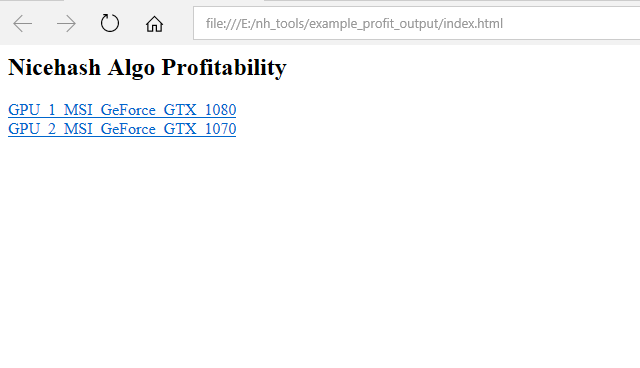
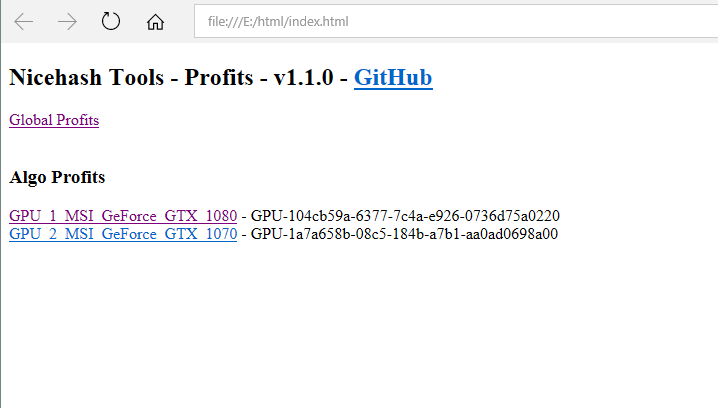
Add global profit chart

diff --git a/nh_profit.php b/nh_profit.php
@@ -46,14 +46,25 @@ if (!is_dir($settings['pathToHtmlDir'])) {
 }
 
 # System defined
-$handle     = fopen($settings['pathToNicehashLogsDir'] . $useThisLog, 'r');
-$btc        = 0;
-$profit2    = array();
-$allAlgos   = array();
+$handle       = fopen($settings['pathToNicehashLogsDir'] . $useThisLog, 'r');
+$btc          = 0;
+$profit2      = array();
+$allAlgos     = array();
+$globalProfit = array();
 
 if ($handle) {
     while (($buff = fgets($handle, 4096)) !== FALSE) {
         $buffr = trim(iconv("UCS-2", "ISO-8859-1", $buff));
+
+        # Grab global profitability details if available
+        if (FALSE !== strpos($buffr, 'Current Global profit:') &&
+            FALSE === strpos($buffr, 'IS PROFITABLE') &&
+            preg_match('/Current Global profit: ([.0-9]*) /', $buffr, $matches)) {
+                $microsec = strtotime($datetime) * 1000;
+                if ($microsec > 1234) {
+                    $globalProfit[] = "[{$microsec},{$matches[1]}]";
+                }
+        }
 
         # Capture current bitcoin rate
         if (preg_match('/Current Bitcoin rate: (.*)/', $buffr, $matches)) {
@@ -67,8 +78,8 @@ if ($handle) {
             }
 
             # Get name of device (GPU, CPU, etc)
-            if (preg_match('/Profits for.*\((.*)\)/', $buffr, $matches)) {
-                $device = str_replace(array(' ','#'), '_', $matches[1]);
+            if (preg_match('/Profits for (.*) \((.*)\)/', $buffr, $matches)) {
+                $device = $matches[1] . '|' . str_replace(array(' ','#'), '_', $matches[2]);
                 $profit = array();
             }
 
@@ -81,7 +92,6 @@ if ($handle) {
 
             # 
             if (preg_match('/MOST PROFITABLE ALGO: (.*), PROFIT: (.*)$/', $buffr, $matches)) {
-
                 # Only show first 100,000 entries
                 if ($ct[$device] < 100000) {
                     if (!isset($allAlgos[$device])) {
@@ -107,12 +117,21 @@ if ($handle) {
         exit;
     }
 
-    # Now build HTML files
+    # Create INDEX.HTML menu
+    $fileName = $settings['pathToHtmlDir'] . 'index.html';
 
-    file_put_contents($settings['pathToHtmlDir'] . 'index.html',"<p><h2>Nicehash Algo Profitability</h2><p>");
+    file_put_contents($fileName, "<!DOCTYPE html PUBLIC \"-//W3C//DTD XHTML 1.0 Transitional//EN\" \"http://www.w3.org/TR/xhtml1/DTD/xhtml1-transitional.dtd\">
+<html xmlns=\"http://www.w3.org/1999/xhtml\">
+<p><h2>Nicehash Tools - Profits - v1.1.0 - <a href=\"https://github.com/bonifacio123/nh_tools\" target=\"_blank\">GitHub</a></h2><p>
+<a href=\"global_profits.html\" title=\" For all devices \">Global Profits</a>
+<br><br><h3>Algo Profits</h3>
+");
 
+    # Build HTML content
     foreach ($profit2 as $dev => $devProp) {
-        file_put_contents($settings['pathToHtmlDir'] . 'index.html',"<a href=\"{$dev}.html\">{$dev}</a><br>", FILE_APPEND);
+        list($deviceID, $deviceName) = explode('|', $dev);
+
+        file_put_contents($fileName, "<a href=\"{$deviceName}.html\" title=\" {$deviceID} \">{$deviceName}</a> - {$deviceID}<br>\n", FILE_APPEND);
 
         $html = "<!DOCTYPE html>
 <script src=\"https://code.jquery.com/jquery-3.1.1.min.js\"></script>
@@ -173,7 +192,7 @@ function createChart() {
         },
 
         title: {
-            text: 'Nicehash Algo Profitability'
+            text: 'Nicehash Algo Profitability<br>{$deviceName}<br>{$deviceID}'
         },
 
         tooltip: {
@@ -202,8 +221,89 @@ seriesOptions[{$ct}] = {
 </script>
 ";
 
-        file_put_contents("{$settings['pathToHtmlDir']}{$dev}.html", $html); # write device stats
+        file_put_contents("{$settings['pathToHtmlDir']}{$deviceName}.html", $html); # write device stats
     }
 }
+
+# Create Global Profits detail
+
+$html = "<!DOCTYPE html>
+<script src=\"https://code.jquery.com/jquery-3.1.1.min.js\"></script>
+<script src=\"https://code.highcharts.com/stock/highstock.js\"></script>
+<script src=\"https://code.highcharts.com/stock/modules/exporting.js\"></script>
+
+<div id=\"container\" style=\"height: 400px; min-width: 310px\"></div>
+<script language='javascript'>
+function chart (seriesData) {
+    // Create the chart
+    Highcharts.stockChart('container', {
+        rangeSelector: {
+            buttons: [{
+                count: 1,
+                type: 'hour',
+                text: '1H'
+            }, {
+                count: 2,
+                type: 'hour',
+                text: '2H'
+            }, {
+                count: 4,
+                type: 'hour',
+                text: '4H'
+            }, {
+                count: 8,
+                type: 'hour',
+                text: '8H'
+            }, {
+                count: 12,
+                type: 'hour',
+                text: '12H'
+            }, {
+                count: 1,
+                type: 'day',
+                text: '1D'
+            }, {
+                count: 1,
+                type: 'week',
+                text: '1W'
+            }, {
+                type: 'all',
+                text: 'All'
+            }],
+            inputEnabled: false,
+            selected: 0
+        },
+
+        title: {
+            text: 'Nicehash Global Profit'
+        },
+
+        yAxis: {
+            title: {
+                text: 'USD'
+            }
+        },
+
+        series: [{
+            name: 'USD',
+            data: seriesData,
+            tooltip: {
+                valueDecimals: 2
+            }
+        }]
+    });
+}
+
+var data = [
+" . implode(",\n", $globalProfit) . "
+];
+
+chart(data);
+</script>
+";
+
+file_put_contents("{$settings['pathToHtmlDir']}global_profits.html", $html);
+
+# Finished
 
 echo "\nnh_profit: HTML files created\n\n";

diff --git a/README.md b/README.md
@@ -2,7 +2,12 @@
 
 Some tools to process Nicehash logs
 
-##Requirements
+```
+2017-09-22 version 1.1.0:  Add graph for global profit
+2017-09-22 version 1.0.0:  Initial Release
+```
+
+## Requirements
 Although written using PHP 7.1.3 on Windows 10 it should work with PHP 5.x or Linux.
 
 ## Included Tools
@@ -54,7 +59,11 @@ Then, Microsoft Excel or Open Office Calc, open the CSV file saved in the locati
 
 #### Profits Main Menu
 
-[![nh_profit_menu_screen.png](https://s26.postimg.org/y1f1myahl/nh_profit_menu_screen.png)](https://postimg.org/image/go4r83f6d/)
+[![nh_profit_menu_screen.png](https://s26.postimg.org/j5sjw48ih/nh_profit_menu_screen.png)](https://postimg.org/image/uuwjk2zh1/)
+
+#### Global Profits
+
+[![nh_global_profits.png](https://s26.postimg.org/ivl1crtw9/nh_global_profits.png)](https://postimg.org/image/6tpnimknp/)
 
 #### Profits Detail
 
